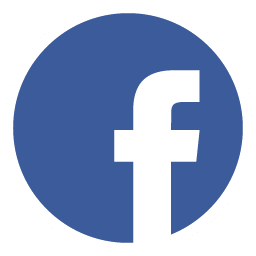
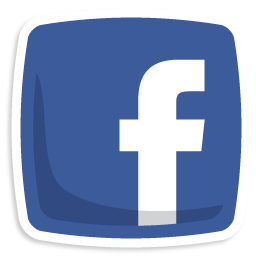
Stars! The graphic will change soon.
Currently, all levels grant 3 stars because they don't have scoring information
Adjusted social buttons

Changed region(s): [[0.0312, 0.0312, 0.9688, 1.0], [0.9375, 0.4375, 0.9688, 0.5625]]

diff --git a/Assets/Scripts/GUI/LevelOverGUI.cs b/Assets/Scripts/GUI/LevelOverGUI.cs
@@ -9,6 +9,7 @@ public class LevelOverGUI : MonoBehaviour
     private float _actualWindowSize;
     private float _actualButtonSize;
 	private float _actualSocialSize;
+	private float _actualStarSize;
 
     public float windowSize = 0.55f;
 	// public float widthRatio = 2.1f;
@@ -16,6 +17,7 @@ public class LevelOverGUI : MonoBehaviour
 	public float largeButtonSize = 0.2f;
 	public float smallButtonSize = 0.15f;
 	public float socialButtonSize = 0.15f;
+	public float starSize = 0.1f;
 
     private static System.Random _rnd;
 
@@ -38,7 +40,7 @@ public class LevelOverGUI : MonoBehaviour
             "Hands down, you rock!",
             "Well handled!",
             "Cleanly done!",
-			"You go hand in hand with greatness!",
+			"You go hand in hand with victory!",
 			"I’ve got to hand it to you..."
         };
         overMessageSet[GameWorld.LevelOverReason.Success] = new[]
@@ -160,6 +162,7 @@ public class LevelOverGUI : MonoBehaviour
 		_actualButtonSizeSmall = smallButtonSize * Screen.height;
         _actualWindowSize = windowSize * Screen.height;
 		_actualSocialSize = socialButtonSize * Screen.height;
+		_actualStarSize = starSize * Screen.height;
         windowHeight = _actualWindowSize;
 		//windowWidth = windowHeight * widthRatio;
 		windowWidth = heightToWidth * Screen.height;
@@ -211,23 +214,40 @@ public class LevelOverGUI : MonoBehaviour
     {
       // GUI.skin = GUIManager.GetSkin();
 
+		//Note #1: The current window graphic has an inner margin of 3. Change accordingly if the graphic changes.
+		//Note #2: The current window graphic has an inner border of 4. ^^^^^^^
+		int innerMargin = 3;
+		int innerBorder = 4;
+		float innerHalf = 3.5f; //3 + 4 / 2
+
 		var style = GUIManager.Style.overMessage;
 		float extra = style.CalcHeight(new GUIContent(overMessage), windowWidth -
 			(GUIManager.Style.overWindow.padding.left +  GUIManager.Style.overWindow.padding.right));
+		if (GameWorld.success) {
+			extra += _actualStarSize + GUIManager.Style.starFull.margin.vertical;
+		}
         var rectIn = (new Rect(0, 0, windowWidth, windowHeight + extra)).Centered();
 
 		var rect = GUI.Window(1, rectIn, DoWindow, GUIContent.none, GUIManager.Style.overWindow);
 		float backSize = _actualButtonSizeSmall;
 
 
-        var backRec = new Rect((rect.xMin - backSize * 0.25f), (rect.y - backSize * 0.25f), backSize, backSize);
+		var backRec = new Rect((rect.xMin - backSize * 0.45f + innerHalf ), (rect.y - backSize * 0.45f + innerHalf), backSize, backSize);
         GUI.Window(2, backRec, DoMenuButtonWindow, "", GUIStyle.none);
 
-		//Note #1: The current window graphic has an inner margin of 3. Change accordingly if the graphic changes.
-		//Note #2: The current window graphic has an inner border of 4. ^^^^^^^
-		int innerMargin = 3;
-		int innerBorder = 4;
-		var socialRec = new Rect(rect.xMax - _actualSocialSize * 3, rect.y - _actualSocialSize + innerMargin + innerBorder, _actualSocialSize * 2.5f, _actualSocialSize);
+
+		/*var socialRec = 
+			(new Rect(
+				rect.xMax - _actualSocialSize * 3,
+				rect.y - _actualSocialSize * 0.6f,
+				_actualSocialSize * 2.5f, _actualSocialSize)).Rounded();*/
+		var socialRec = new Rect(
+			rect.x - _actualSocialSize * 1.25f,
+			                0,
+			                _actualSocialSize * 2,
+			_actualSocialSize * 2.25f);
+		//socialRec.x = socialRec.Centered().x;
+		socialRec.y = socialRec.Centered().y;
 		GUI.Window(3, socialRec, DoSocialWindow, "", GUIStyle.none);
 
 		GUI.BringWindowToFront(2);
@@ -240,15 +260,32 @@ public class LevelOverGUI : MonoBehaviour
 
 		GUILayout.Label(overTitle, GUIManager.Style.overTitle);
 
-        GUILayout.BeginVertical();
+		GUILayout.BeginVertical();
         //GUILayout.FlexibleSpace();
 		GUILayout.Label(overMessage, GUIManager.Style.overMessage);
+		if (GameWorld.success) {
+			GUILayout.BeginHorizontal();
+			GUILayout.FlexibleSpace();
+			int i = 0;
+			for (; i < currentScore; ++i) {
+				GUILayout.Label("", GUIManager.Style.starFull,
+					GUILayout.Width(_actualStarSize), GUILayout.Height(_actualStarSize));
+			}
+			for (; i < 3; ++i) {
+				GUILayout.Label("", GUIManager.Style.starEmpty,
+					GUILayout.Width(_actualStarSize), GUILayout.Height(_actualStarSize));
+			}
+			GUILayout.FlexibleSpace();
+			GUILayout.EndHorizontal();
+		}
         GUILayout.FlexibleSpace();
 
         GUILayout.BeginHorizontal();
 		{
 			GUILayout.FlexibleSpace();
 			if (GameWorld.success) {
+				GUILayout.FlexibleSpace();
+				GUILayout.FlexibleSpace();
 				GUILayout.FlexibleSpace();
 			}
 			if (GUILayout.Button("Restart", GUIManager.Style.restartOver, GUILayout.Width(_actualButtonSize), GUILayout.Height(_actualButtonSize))) {
@@ -262,6 +299,8 @@ public class LevelOverGUI : MonoBehaviour
 					FadeToLevelStart();
 				}
 
+				GUILayout.FlexibleSpace();
+				GUILayout.FlexibleSpace();
 				GUILayout.FlexibleSpace();
 				GUILayout.FlexibleSpace();
 			}
@@ -288,6 +327,8 @@ public class LevelOverGUI : MonoBehaviour
         }
     }
 
+	int currentScore = 0;
+
     void Enter()
     {
         ResetSize();
@@ -299,12 +340,14 @@ public class LevelOverGUI : MonoBehaviour
 
 		if (GameWorld.success) {
 			if (LevelManager.Instance.minScore == 0 || GameWorld.score <= LevelManager.Instance.minScore) {
-				Debug.Log("Golden Soap");
+				currentScore = 3;
 			} else if (LevelManager.Instance.maxScore == 0 || GameWorld.score <= LevelManager.Instance.maxScore) {
-				Debug.Log("Silver Soap");
+				currentScore = 2;
 			} else {
-				Debug.Log("Bronze Soap");
+				currentScore = 1;
 			}
+		} else {
+			currentScore = 0;
 		}
     }
 
@@ -317,7 +360,7 @@ public class LevelOverGUI : MonoBehaviour
     }
 
 	void DoSocialWindow(int windowID) {
-		GUILayout.BeginHorizontal();
+		GUILayout.BeginVertical();
 		{
 			if (GUILayout.Button("Twitter", GUIManager.Style.twitter, GUILayout.Width(_actualSocialSize), GUILayout.Height(_actualSocialSize)))
 			{
@@ -329,7 +372,7 @@ public class LevelOverGUI : MonoBehaviour
 				ShareToFacebook("I, #HandyMD, just cured a patient with clean hands!", "http://handymd-game.appspot.com");
 			}
 		}
-		GUILayout.EndHorizontal();
+		GUILayout.EndVertical();
 	}
 
     void FadeToMainMenu()

diff --git a/Assets/Scripts/GUI/HandyStyles.cs b/Assets/Scripts/GUI/HandyStyles.cs
@@ -51,6 +51,8 @@ public class HandyStyles
 		creditsMessage = skin.customStyles[count++];
 		facebook = skin.customStyles[count++];
 		twitter = skin.customStyles[count++];
+		starFull = skin.customStyles[count++];
+		starEmpty = skin.customStyles[count++];
 	}
 
 	public readonly GUIStyle author;
@@ -86,5 +88,7 @@ public class HandyStyles
 	public readonly GUIStyle creditsMessage;
 	public readonly GUIStyle facebook;
 	public readonly GUIStyle twitter;
+	public readonly GUIStyle starFull;
+	public readonly GUIStyle starEmpty;
 }
 

diff --git a/Assets/Scripts/Utilities/Extensions/RectExtensions.cs b/Assets/Scripts/Utilities/Extensions/RectExtensions.cs
@@ -14,6 +14,12 @@ public static class RectExtensions
 			rect.width, rect.height);
 	}
 
+	public static Rect Rounded(this Rect rect) {
+		return new Rect(
+			Mathf.Round(rect.x), Mathf.Round(rect.y),
+			Mathf.Round(rect.width), Mathf.Round(rect.height));
+	}
+
 	public static RectOffset Scaled(this RectOffset rect, float scale) {
 		return new RectOffset(
 			Mathf.RoundToInt(rect.left * scale), 
